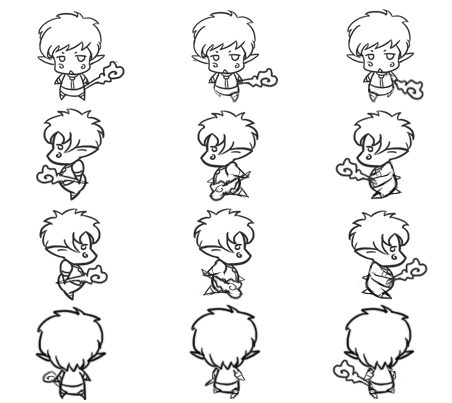
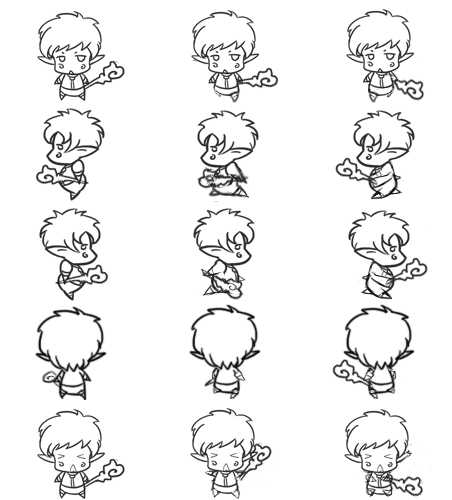
Replace resource, add fall

Changed region(s): [[0.7124, 0.0, 0.9602, 1.0], [0.4027, 0.0, 0.6195, 1.0], [0.0619, 0.0, 0.2788, 1.0]]

diff --git a/src/Enemies.js b/src/Enemies.js
@@ -3,6 +3,9 @@ var Enemy = cc.Sprite.extend({
     dieAnime: null,
     runAnime: null,
     chaseAnime: null,
+    chaseFr: null,
+    runFr: null,
+    restFr: null,
     dirInDegree: 0,
     direction: 0,
     speed: CFG.Enemy.chaseSpeed,
@@ -12,9 +15,15 @@ var Enemy = cc.Sprite.extend({
     chasing: false,
     ranning: false,
     couraged: false,
+    courageScheduled: false,
     
-    ctor: function(spriteFrame, target) {
-        this._super(spriteFrame);
+    ctor: function(target) {
+        var tex = CFG.Enemy.tex;
+        this.chaseFr = new cc.SpriteFrame(tex, CFG.Enemy.chaseRect);
+        this.runFr = new cc.SpriteFrame(tex, CFG.Enemy.runRect);
+        this.restFr = new cc.SpriteFrame(tex, CFG.Enemy.restRect);
+        
+        this._super(this.restFr);
         this.target = target;
         this.speed += Math.random() * 1 - 0.5;
     },
@@ -58,6 +67,11 @@ var Enemy = cc.Sprite.extend({
             this.direction = Math.random() * Math.PI * 2;
             this.dirInDegree = 180 * this.direction / Math.PI;
             //this.speed = CFG.Enemy.restSpeed;
+            if (this.chasing || this.ranning) {
+                this.chasing = false;
+                this.ranning = false;
+                this.setSpriteFrame(this.restFr);
+            }
         }
     },
     
@@ -69,6 +83,7 @@ var Enemy = cc.Sprite.extend({
             this.chasing = true;
             this.ranning = false;
             this.stopAllActions();
+            this.setSpriteFrame(this.chaseFr);
             this.chaseAnime && this.runAction(this.chaseAnime);
         }
     },
@@ -83,8 +98,12 @@ var Enemy = cc.Sprite.extend({
             this.chasing = false;
             this.ranning = true;
             this.stopAllActions();
+            this.setSpriteFrame(this.runFr);
             this.runAnime && this.runAction(this.runAnime);
-            this.scheduleOnce(this.getCouraged, CFG.Enemy.courageTime + Math.floor(Math.random() * CFG.Enemy.courageTime));
+            if (!this.courageScheduled) {
+                this.scheduleOnce(this.getCouraged, CFG.Enemy.courageTime + Math.floor(Math.random() * CFG.Enemy.courageTime));
+                this.courageScheduled = true;
+            }
         }
     },
     

diff --git a/src/Hero.js b/src/Hero.js
@@ -3,16 +3,21 @@ var Hero = cc.Sprite.extend({
     downAnime: null,
     leftAnime: null,
     rightAnime: null,
+    fallAnime: null,
     standUp: null,
     standDown: null,
     standLeft: null,
     standRight: null,
+    preFallFr: null,
+    fallingFr: null,
+    landedFr: null,
     collisionObjs: null,
     
     speed: CFG.Hero.speed,
     hp: CFG.Hero.hp,
     
     unhurtable: false,
+    isFalling: false,
     
     goLeft: false,
     goRight: false,
@@ -60,6 +65,12 @@ var Hero = cc.Sprite.extend({
         this.standRight = new cc.SpriteFrame(tex, rect);
         rect.y += h;
         this.standUp = new cc.SpriteFrame(tex, rect);
+        rect.y += h;
+        this.preFallFr = new cc.SpriteFrame(tex, rect);
+        rect.x += w;
+        this.fallingFr = new cc.SpriteFrame(tex, rect);
+        rect.x += w;
+        this.landedFr = new cc.SpriteFrame(tex, rect);
         
         this.stand();
         this.collisionObjs = [];
@@ -96,6 +107,36 @@ var Hero = cc.Sprite.extend({
             this.goRight = false;
             this.setSpriteFrame(this.standRight);
         }
+        else 
+            this.setSpriteFrame(this.standDown);
+    },
+    
+    fall: function() {
+        this.isFalling = true;
+        this.stopAllActions();
+        this.setSpriteFrame(this.preFallFr);
+    },
+    
+    falling: function() {
+        this.isFalling = true;
+        this.stopAllActions();
+        this.setSpriteFrame(this.fallingFr);
+    },
+    
+    landed: function() {
+        this.isFalling = true;
+        this.stopAllActions();
+        this.setSpriteFrame(this.landedFr);
+        this.scheduleOnce(this.fallOver, 1);
+    },
+    
+    fallOver: function() {
+        this.isFalling = false;
+        this.goUp = false;
+        this.goDown = true;
+        this.goLeft = false;
+        this.goRight = false;
+        this.stand();
     },
     
     hasWeapon: function() {
@@ -171,3 +212,5 @@ _p.downAnime;
 _p.leftAnime;
 /** @expose */
 _p.rightAnime;
+/** @expose */
+_p.fallAnime;

diff --git a/src/WallLayer.js b/src/WallLayer.js
@@ -1,20 +1,26 @@
-var WallLayer = cc.Layer.extend({
+var WallLayer = cc.Sprite.extend({
     _wall: null,
     
     ctor: function(width, height) {
-        var batchNode_scaled;
+        //var batchNode_scaled;
         
-        this._super();
-        batchNode_scaled = new cc.SpriteBatchNode(CFG.Wall.tex);
-
-        this._wall = new cc.Scale9Sprite();
-        this._wall.updateWithBatchNode(batchNode_scaled, CFG.Wall.rect, false, CFG.Wall.capInset);
+        this._super(CFG.Wall.tex);
         
-        this._wall.width = width;
-        this._wall.height = height;
-        this._wall.x = width/2;
-        this._wall.y = height/2;
-
-        this.addChild(this._wall);
+        this.scaleX = width / this.width;
+        this.scaleY = height / this.height;
+        this.x = width/2;
+        this.y = height/2;
+        
+//        batchNode_scaled = new cc.SpriteBatchNode(CFG.Wall.tex);
+//
+//        this._wall = new cc.Scale9Sprite();
+//        this._wall.updateWithBatchNode(batchNode_scaled, CFG.Wall.rect, false, CFG.Wall.capInset);
+//        
+//        this._wall.width = width;
+//        this._wall.height = height;
+//        this._wall.x = width/2;
+//        this._wall.y = height/2;
+//
+//        this.addChild(this._wall);
     }
 });

diff --git a/src/config.js b/src/config.js
@@ -1,5 +1,5 @@
-var marginX = 150,
-    marginY = 120,
+var marginX = 130,
+    marginY = 130,
     width = 1200,
     height = 800;
 
@@ -18,18 +18,18 @@ var CFG = {
     downBorder: marginY,
     upBorder: height - marginY,
     
-    inScaleX: 0.8,
-    inScaleY: 0.65,
+    inScaleX: 0.78,
+    inScaleY: 0.68,
     
     outScaleX: 1.3,
-    outScaleY: 2,
+    outScaleY: 1.5,
     
     tileBreakTime: 0.5,
     
     Wall: {
         tex: res.wall_png,
-        rect: cc.rect(0, 0, 600, 338),
-        capInset: cc.rect(0, 0, 600, 338),
+        rect: cc.rect(0, 0, 598, 395),
+        capInset: cc.rect(0, 0, 598, 395),
     },
     
     Hero: {
@@ -41,12 +41,16 @@ var CFG = {
     },
     
     Enemy: {
+        tex: res.enemy_png,
         chaseSpeed: 1.5,
         restSpeed: 0.5,
         runSpeed: 2,
         warnDis: 300,
         damage: 10,
-        courageTime: 7
+        courageTime: 7,
+        chaseRect: cc.rect(200, 0, 100, 120),
+        runRect: cc.rect(100, 0, 100, 120),
+        restRect: cc.rect(0, 0, 100, 120)
     },
     
     itemInterval: 600,

diff --git a/src/GameScene.js b/src/GameScene.js
@@ -61,16 +61,19 @@ var GameScene = cc.Scene.extend({
             cc.sequence(
                 cc.delayTime(CFG.tileBreakTime),
                 cc.callFunc(this.preScale, this),
-                cc.scaleTo(1, 1.3, 2),
+                cc.scaleTo(1, CFG.outScaleX, CFG.outScaleY),
                 cc.callFunc(this.transitionDone, this)
             )
         );
+        
+        this._hero.fall();
     },
     
     preScale: function() {
         // Clean up the room
         this._room.cleanUp();
         this._downRoom.runAction(cc.scaleTo(1, 1));
+        this._hero.falling();
     },
     
     transitionDone: function() {
@@ -79,6 +82,9 @@ var GameScene = cc.Scene.extend({
         this._room.zIndex = 1;
         this._downRoom = temp;
         this._downRoom.zIndex = 2;
+        
+        this._hero.landed();
+        
         this._breaking = false;
     }
 });

diff --git a/src/EnemyLayer.js b/src/EnemyLayer.js
@@ -7,7 +7,7 @@ EnemyLayer = cc.Layer.extend({
     },
     
     addEnemy: function(type) {
-        var enemy = new type(new cc.SpriteFrame(res.enemy_png, cc.rect(0, 0, 40, 40)), this.target), 
+        var enemy = new type(this.target), 
             x, y;
         this.addChild(enemy);
         enemy.x = enemy.width/2 + Math.round(Math.random() * this.width - enemy.width);

diff --git a/src/resource.js b/src/resource.js
@@ -2,7 +2,7 @@ var res = {
     tile_png : "res/tile.png",
     wall_png : "res/wall.png",
     hero_png : "res/hero.png",
-    enemy_png : "res/CloseNormal.png",
+    enemy_png : "res/fantome.png",
     item_png : "res/CloseSelected.png"
 };
 
